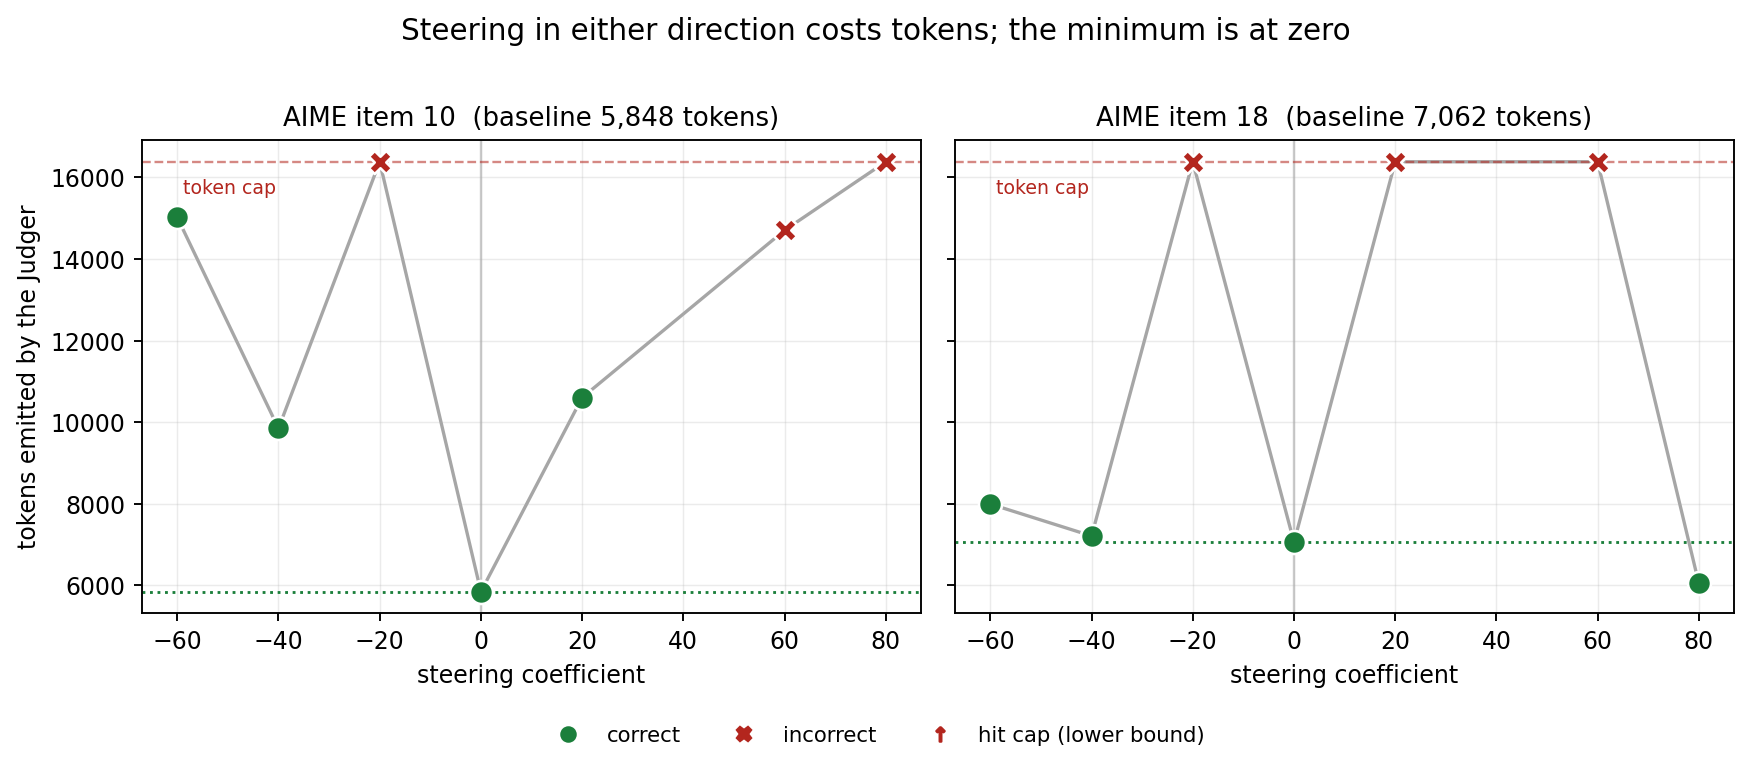
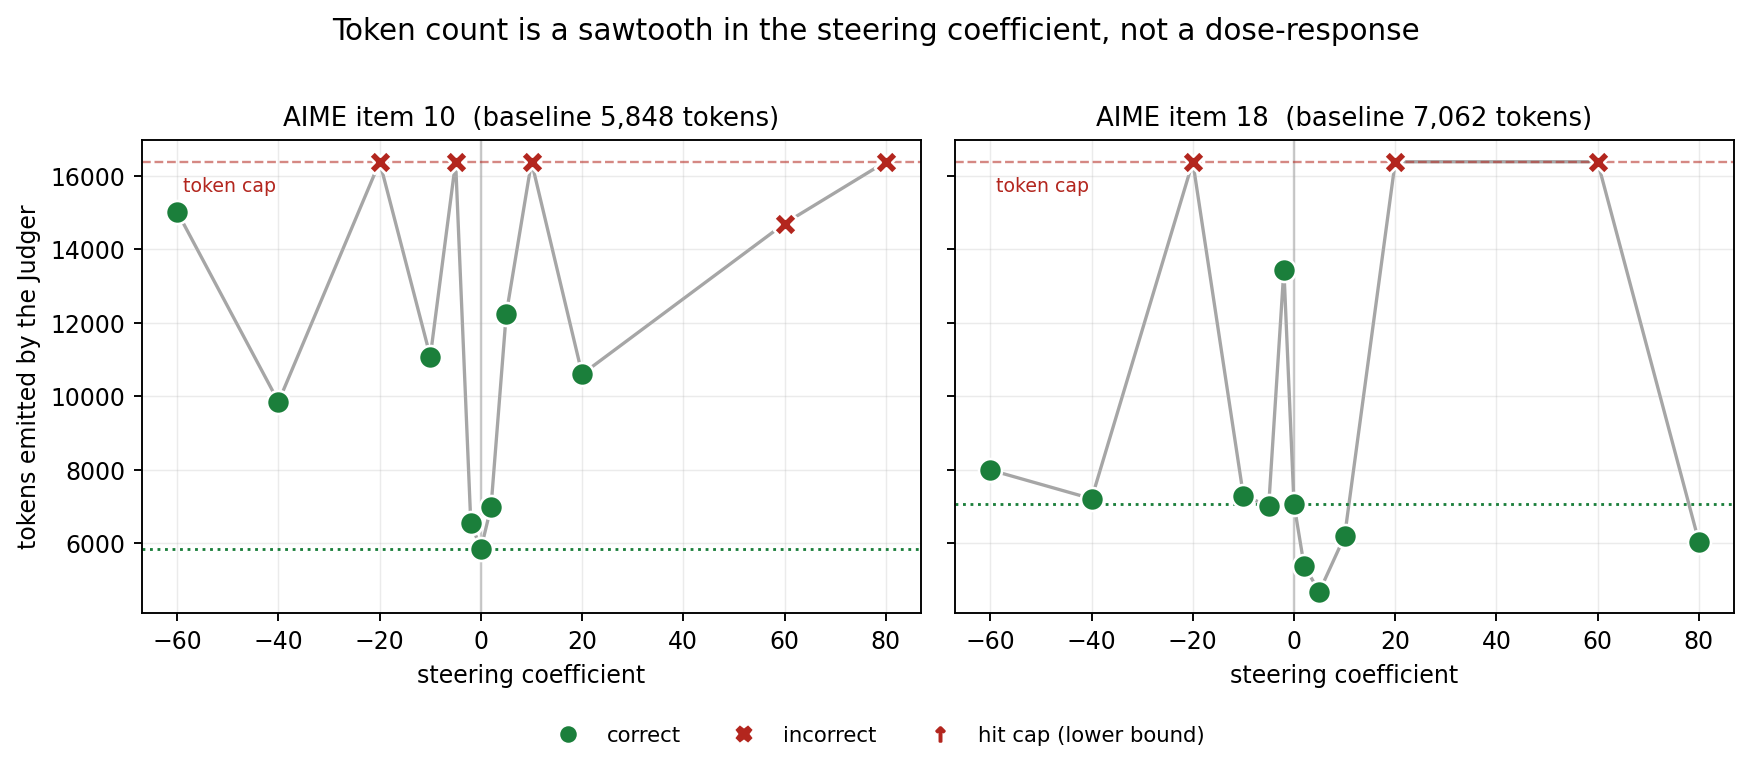
Small-coefficient sweep: the design cannot resolve the effect it was built to test
Ran coef 2/5/10/-2/-5/-10 on the two screen items. Zero survivors. Item 18's
positive side looks like the hoped-for result in isolation -- a monotone dip to
-34% at coef 5, correctness preserved -- but the negative side refutes that
reading: coef -5 sits at baseline while its neighbour -2 is +90%, and on item 10
coefficients -2 and -10 both terminate while -5 between them hits the cap.

Decoding is greedy on a fixed path and token counts reproduce exactly, so these
are not noisy measurements. Small coefficient changes tip the Judger onto
different reasoning trajectories whose lengths are near-arbitrary. Adjacent
coefficients differ by up to 168% of baseline while the effect under
investigation is ~30%, so one run per (item, coefficient) resolves nothing.

This retracts the "minimum is at zero" reading from 3.5, which was an artifact of
only ever sampling |coef| >= 20, and replaces it with a cost: a defensible claim
needs 20-30 items per coefficient (~10 GPU-h for three points), or we stop
measuring this vector. The durable result is that item 10 never improved at any
of 8 terminating settings from -60 to +80.

The run log is force-added past .gitignore: it is 8 KB and it is the only
provenance for which decode path and budget produced these rows.

diff --git a/scripts/plot_coef_sweep.py b/scripts/plot_coef_sweep.py
@@ -1,10 +1,18 @@
 """Token count against steering coefficient, both signs, on the screen items.
 
-The point of the figure: the curve is not monotonic through zero, it is a valley
-with its minimum AT zero. Steering the Judger in *either* direction along the
-SEAL axis makes it emit more tokens, which says the effect is a magnitude effect
-(a perturbation off the model's distribution) rather than the semantic
-execution-vs-reflection effect the vector is supposed to encode.
+The point of the figure, after the small-magnitude sweep of 2026-09-29: token
+count is not a smooth function of the coefficient at all. It is a sawtooth.
+Neighbouring coefficients that should be near-equivalent land in qualitatively
+different places -- item 18 sits at baseline at coef -5 and at +90% at coef -2;
+item 10 finishes at coef -2 and -10 but runs away at -5 in between.
+
+Decoding here is deterministic (greedy, fixed decode path, token counts reproduce
+exactly), so these are not measurement noise. A small change in the steering
+coefficient tips the Judger onto a different reasoning trajectory, and the length
+of that trajectory is close to arbitrary. The practical consequence is the reason
+this figure exists: a single run per (item, coefficient) cannot support a
+dose-response claim, because the spread between adjacent coefficients is larger
+than any effect we are trying to detect.
 
 Usage:
   python scripts/plot_coef_sweep.py --rows artifacts/aime_localize/rows.jsonl
@@ -104,8 +112,8 @@ def main() -> None:
     ]
     fig.legend(handles=handles, loc="lower center", ncol=3, frameon=False,
                fontsize=9, bbox_to_anchor=(0.5, -0.02))
-    fig.suptitle("Steering in either direction costs tokens; the minimum is at zero",
-                 fontsize=12.5)
+    fig.suptitle("Token count is a sawtooth in the steering coefficient, "
+                 "not a dose-response", fontsize=12.5)
     fig.tight_layout(rect=(0, 0.05, 1, 0.97))
     os.makedirs(os.path.dirname(args.out) or ".", exist_ok=True)
     fig.savefig(args.out, dpi=170, bbox_inches="tight")
@@ -115,10 +123,23 @@ def main() -> None:
         base = next((t for t in data[idx] if t[0] == 0.0), None)
         if not base:
             continue
-        worse = sum(1 for c, t, _, _ in data[idx] if c != 0 and t > base[1])
-        n = sum(1 for c, _, _, _ in data[idx] if c != 0)
-        print(f"item {idx}: {worse}/{n} steered settings emit MORE than baseline "
-              f"({base[1]} tokens)")
+        steered = [p for p in data[idx] if p[0] != 0]
+        worse = sum(1 for _, t, _, _ in steered if t > base[1])
+        # A setting only helps if it is shorter AND still correct AND terminated;
+        # censored runs are lower bounds and cannot be counted as short.
+        helped = [c for c, t, ok, eos in steered if eos and ok and t < base[1]]
+        print(f"item {idx}: {worse}/{len(steered)} steered settings emit MORE than "
+              f"baseline ({base[1]} tokens); "
+              f"{len(helped)} shorter-and-correct: {helped}")
+        # The spread between adjacent coefficients bounds what any single run can
+        # resolve. If it exceeds the effect size, the sweep is not measuring dose.
+        jumps = [(abs(b[1] - a[1]) / base[1], a[0], b[0])
+                 for a, b in zip(steered, steered[1:])]
+        if jumps:
+            worst = max(jumps)
+            print(f"  largest jump between adjacent coefficients: "
+                  f"{100 * worst[0]:.0f}% of baseline "
+                  f"(coef {worst[1]:g} -> {worst[2]:g})")
 
 
 if __name__ == "__main__":

diff --git a/docs/RESULTS_2026_09_24_COEFFICIENT_RUN.md b/docs/RESULTS_2026_09_24_COEFFICIENT_RUN.md
@@ -187,6 +187,80 @@ expectation. A cheaper variant also becomes interesting: sweep *small* magnitude
 (coef 2, 5, 10) to find where the perturbation cost begins, since everything
 tested so far is >= 20 and may simply be far off-distribution.
 
+> **Superseded in part by §3.6.** That sweep ran, and the claim above that the
+> minimum is "at zero" is wrong for item 18: coefficients 2, 5 and 10 all come in
+> below its baseline, with a minimum of -34% at coefficient 5. The "valley with
+> its minimum at zero" reading was an artifact of only ever sampling |coef| >= 20.
+> The magnitude-effect conclusion survives for item 10, which never improves at
+> any coefficient, but §3.6 shows the sweep resolves neither claim: adjacent
+> coefficients differ by up to 168% of baseline.
+
+## 3.6 The small-magnitude sweep (2026-09-29): the sweep cannot resolve the effect
+
+§3.5 proposed sweeping small coefficients on the theory that everything tested so
+far (|coef| >= 20 against a vector of raw norm 52.7) was simply far
+off-distribution. That ran: coefficients 2, 5, 10, -2, -5, -10 on the two screen
+items, 54 minutes, `DECODE_FLAGS="--decode_path sdpa+dynamic"`. **Zero survivors.**
+
+The headline finding is not about any coefficient. It is that **token count is not
+a smooth function of the coefficient**, so this experimental design cannot measure
+what it was built to measure.
+
+Item 18, every setting ever run (baseline 7,062):
+
+| coef | -60 | -40 | -20 | -10 | -5 | -2 | 0 | +2 | +5 | +10 | +20 | +60 | +80 |
+|---|---|---|---|---|---|---|---|---|---|---|---|---|---|
+| tokens | 7,996 | 7,214 | cap | 7,298 | 7,017 | 13,451 | 7,062 | 5,392 | 4,684 | 6,194 | cap | cap | 6,050 |
+| vs base | +13% | +2% | — | +3% | -1% | **+90%** | — | -24% | **-34%** | -12% | — | — | -14% |
+
+Item 10, same settings (baseline 5,848): **0 of 8** terminating settings came in
+shorter, across the whole range -60 to +80. Four of twelve hit the cap.
+
+Read in isolation, item 18's positive side looks like exactly the hoped-for
+result: a monotone dip to -34% at coefficient 5, then a turn back up as
+perturbation cost takes over, with correctness preserved throughout. That reading
+does not survive the negative side. Coefficient -5 sits at baseline (-0.6%) while
+its neighbour -2 is +90%. On item 10, -2 and -10 both terminate while -5 between
+them runs into the cap.
+
+**This is not measurement noise.** Decoding is greedy on a fixed decode path, and
+§1 established that token counts reproduce exactly. Every number above is exact.
+What varies is the trajectory: a small change in the steering coefficient tips the
+Judger onto a different reasoning path, and the length of that path is close to
+arbitrary.
+
+The quantity that settles it, printed by `scripts/plot_coef_sweep.py`:
+
+* largest jump between **adjacent** coefficients, item 10: **168% of baseline** (-5 -> -2)
+* largest jump between adjacent coefficients, item 18: **146% of baseline** (+60 -> +80)
+
+The effect under investigation is on the order of 30%. When neighbouring settings
+of the independent variable differ by 150%, a single run per (item, coefficient)
+resolves nothing, and the apparent dip at +2/+5/+10 on item 18 is as easily three
+draws from a wide distribution as it is a dose-response.
+
+**What this costs the plan.** The small-magnitude hypothesis is not confirmed and
+not refuted; it is unmeasurable at n=2 items with one run per cell. Two honest
+routes remain, and they are not cheap:
+
+1. **Pay for the statistics.** Many more items per coefficient — 20-30, so
+   per-item trajectory chaos averages out and coefficients can be compared as
+   distributions. At ~385 s/item worst case that is ~3 GPU-hours per coefficient,
+   so ~10 GPU-hours for a three-point curve. This is the only route that can
+   produce a defensible token-efficiency claim about this vector.
+2. **Stop measuring this vector.** The one durable result across 24 settings is
+   that 0/8 terminating settings helped item 10 at any coefficient of either
+   sign. If a second or third item behaves like item 10, the direction is not a
+   brevity control at this injection site and the remaining GPU is better spent
+   elsewhere.
+
+Route 1 is also the correct precondition for the brevity vector: without a
+per-item noise band there is no way to tell a real 30% saving from trajectory
+luck. The `--mode samples` run (k=4 at temperature) measures a *different* band
+(within-item, under sampling) and is still worth having, but it does not
+substitute for item count, because the variation documented here is across
+coefficients at fixed item, not across runs at fixed coefficient.
+
 ## 4. What this run did not establish
 
 * **Nothing about accuracy at n=6.** The noise floor is +/-2 items (a
